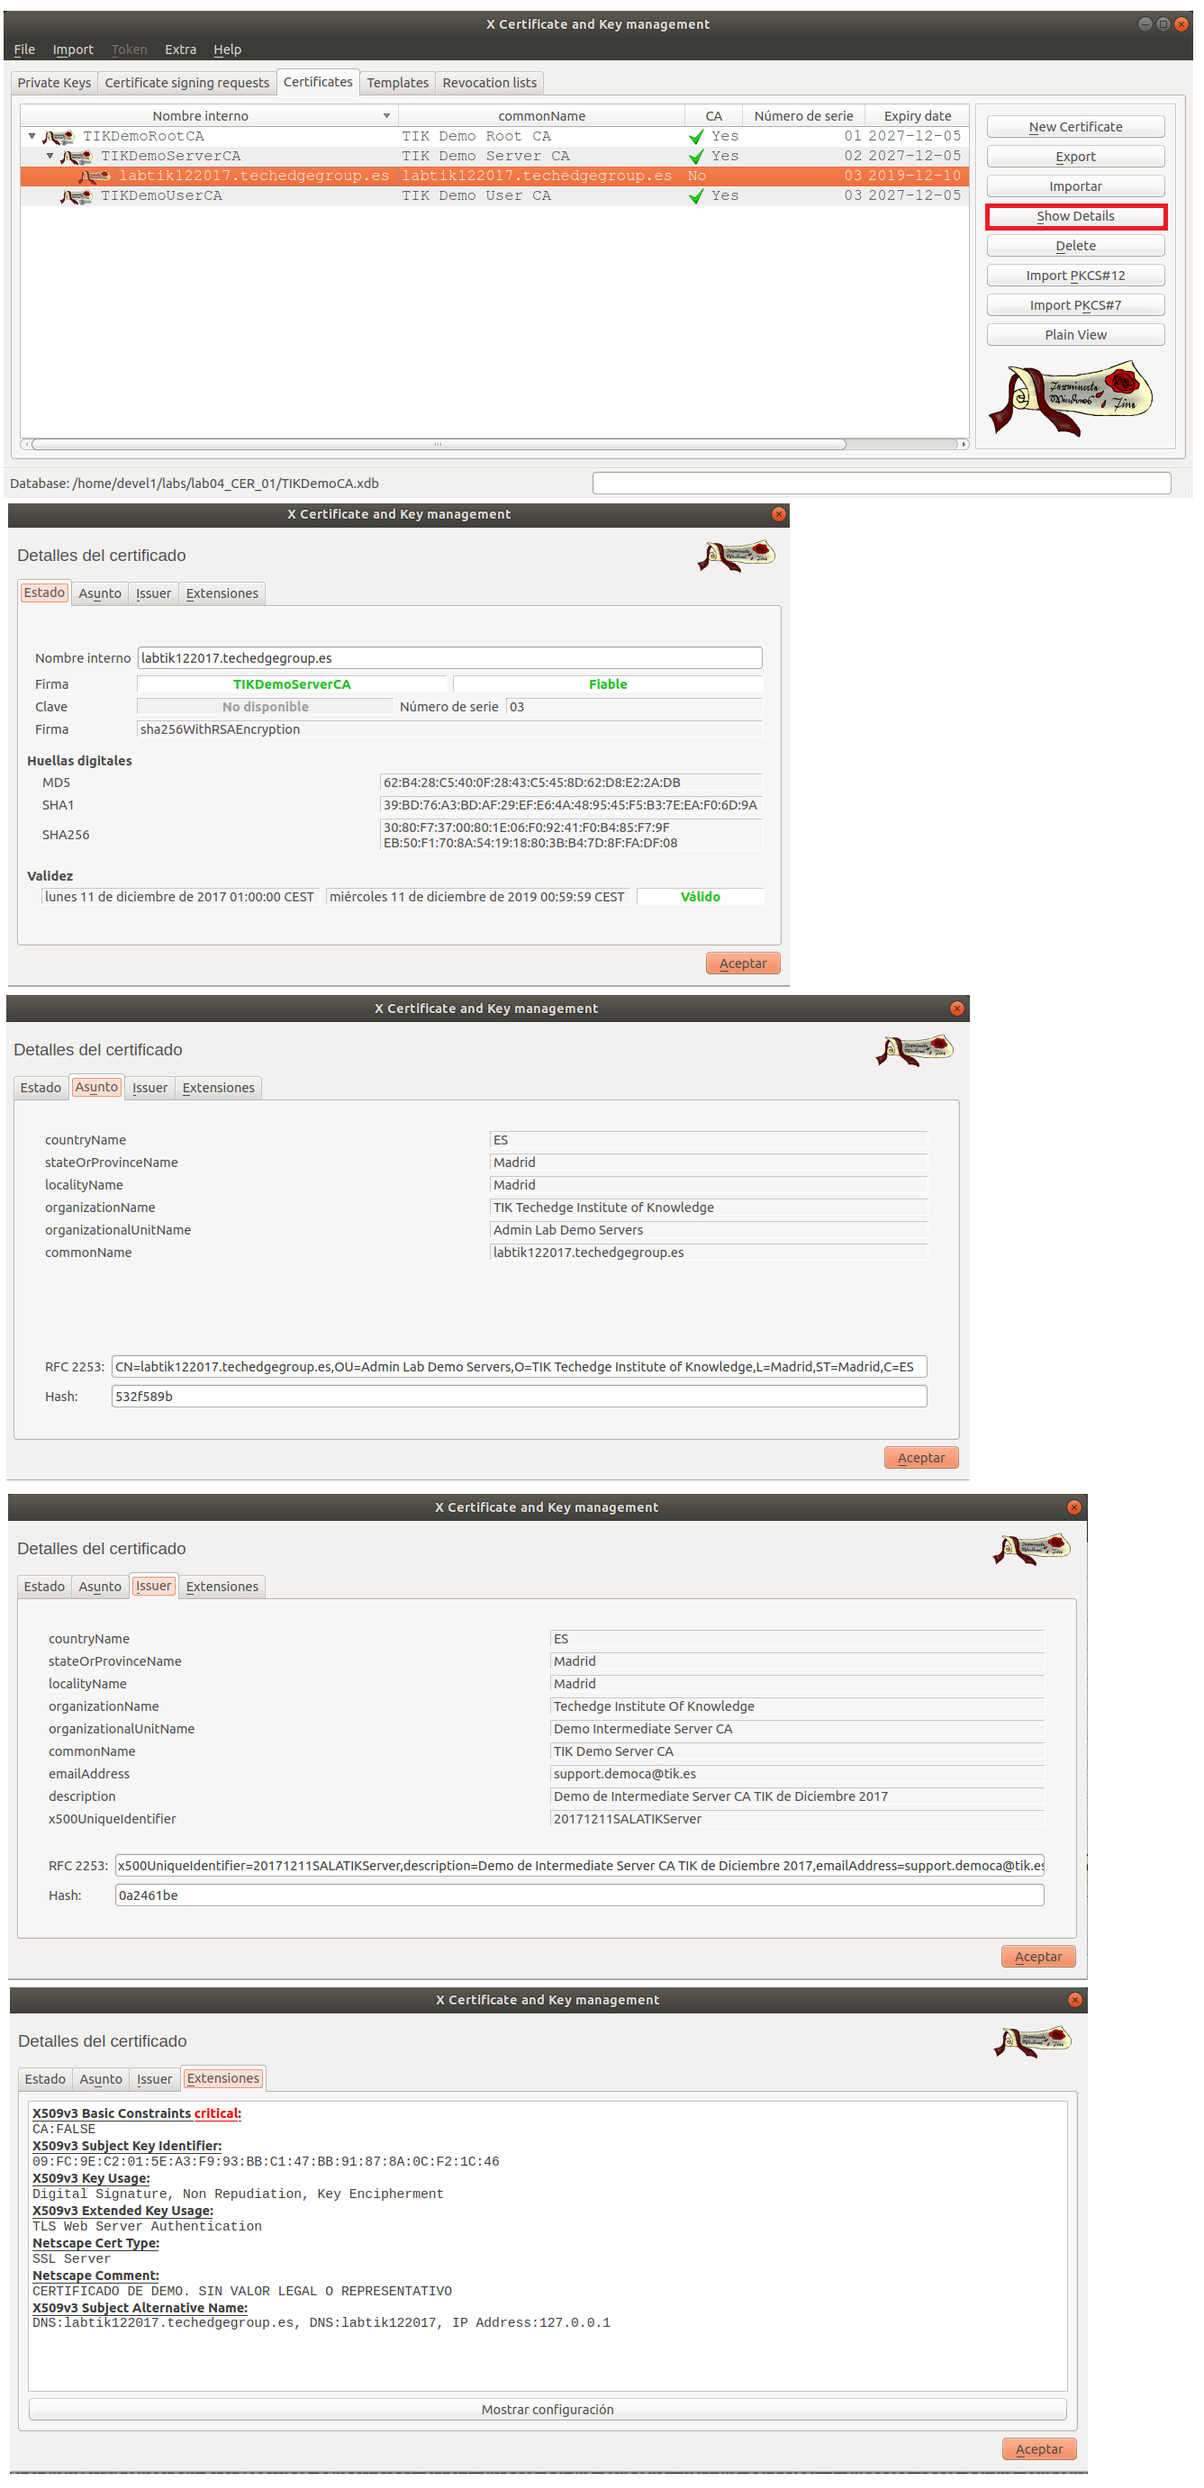
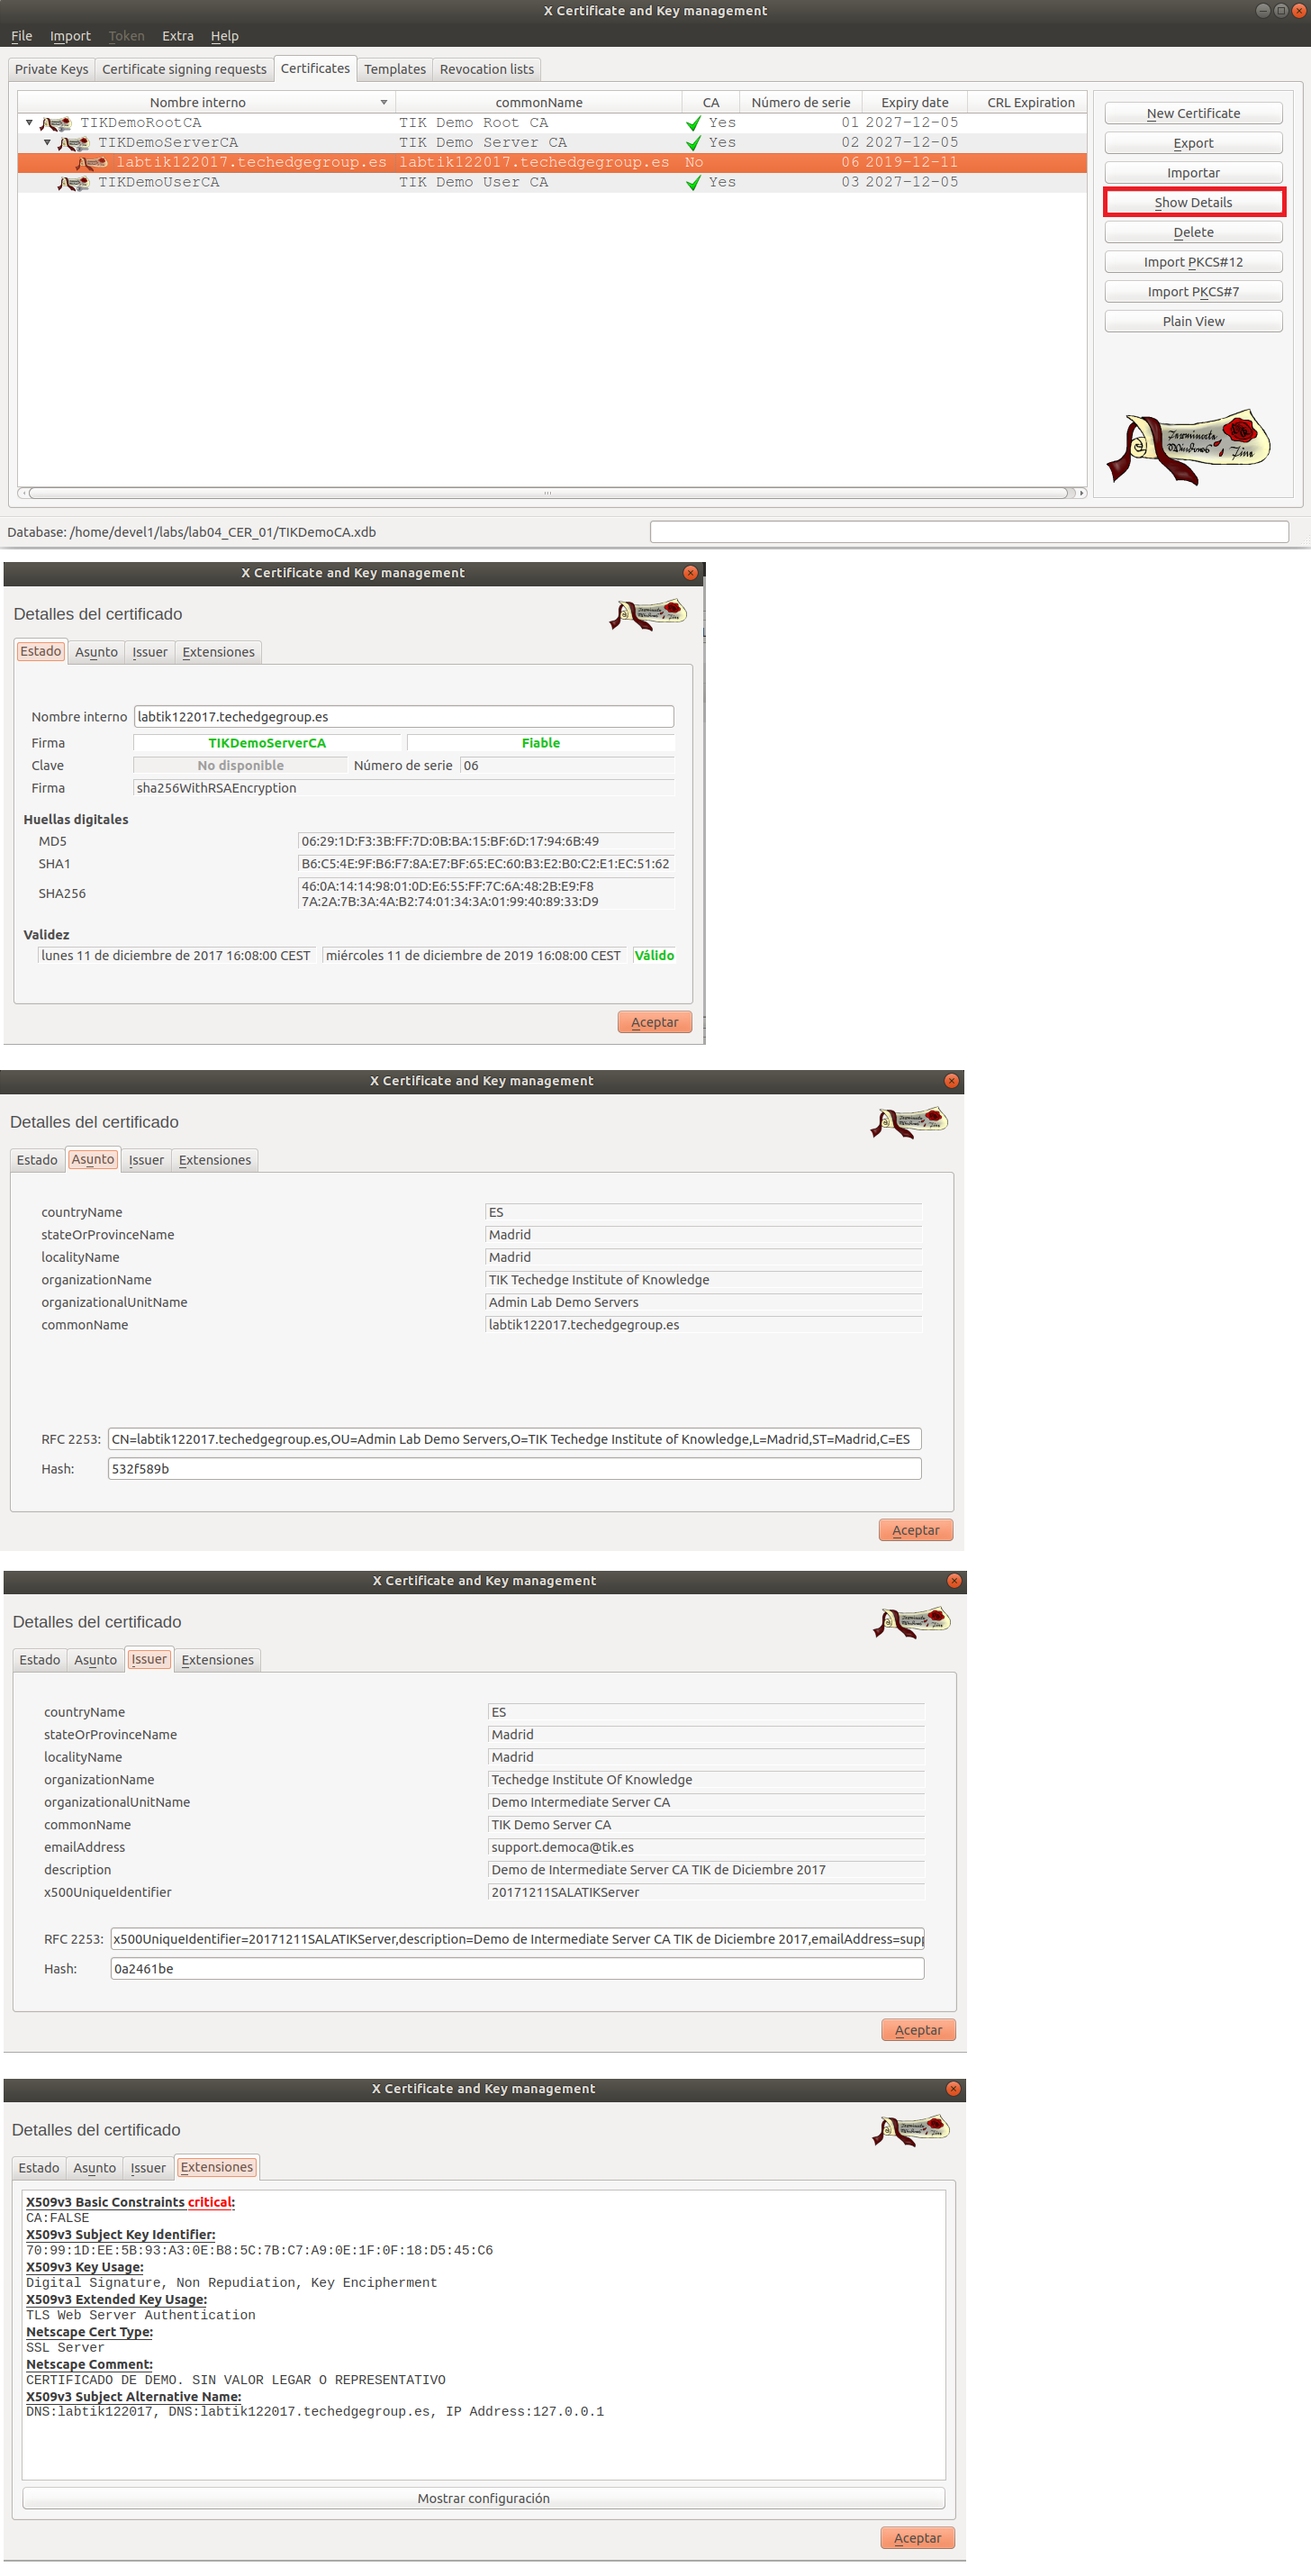
Lab04 Actualizacion

Changed region(s): [[0.0, 0.0, 1.0, 0.996], [0.828, 0.9649, 0.8893, 0.996]]

diff --git a/Lab04_CER_01.md b/Lab04_CER_01.md
@@ -496,7 +496,7 @@ Formato `PEM` y extensión `.crt`:
 gcr-viewer labtik122017.techedgegroup.es.crt
 ```
 
-![TIKDemoCA_img15_CRT_Viewer.png](images/TIKDemoCA_img15_CRT_Viewer.png  "TIKDemoCA_img15_CRT_Viewer.png")
+![TIKDemoCA_img15_CRT_Viewer.png](images/TIKDemoCA_img15_CRT_Viewer.png "TIKDemoCA_img15_CRT_Viewer.png")
 
 Formato `DER` y extensión `.cer`:
 
@@ -509,34 +509,34 @@ Formato `PEM` con la `Cadena de Certificados en formato PEM`:
 ```
 $ cat labtik122017.techedgegroup.es_CHAIN.pem
 -----BEGIN CERTIFICATE-----
[41 lines of base64/hex data omitted]
-8u3FOM70uAwEoegH0HUYmY5CBMS960kJzNKNFuUKFrmCE68=
[7 lines of base64/hex data omitted]
+pQ8lzX2LucRyVdV34S0nwsUVFo+g3HnB73LUpWjlVfVSfN4=
 -----END CERTIFICATE-----
 -----BEGIN CERTIFICATE-----
[1 lines of base64/hex data omitted]
@@ -599,6 +599,7 @@ vy611o6AHBpj8/5o2fJMcwgPAlU1Kg3ouihVoKePzzTPmQV78pTpeh6SsHQO3y5q
[1 lines of base64/hex data omitted]
 PNHrv96O6wHdE055D3Xa
 -----END CERTIFICATE-----
+
 ```
 ```
 gcr-viewer labtik122017.techedgegroup.es_CHAIN.pem
@@ -619,3 +620,20 @@ gcr-viewer labtik122017.techedgegroup.es.p7b
 ### Paso 4. Hacer disponible al `SOLICITANTE` el certificado generado junto con los certíficados X.509 de `Cadena de Certificación` con la que se firmó:
 
 
+Dependiendo de la 
+
+
+Recordar:
+
+```
+  openssl pkcs7 -in labtik122017.techedgegroup.es.p7b -out TIK_CA_chain.pem -inform DER -outform PEM -print_certs
+
+  subl TIK_CA_chain.pem  (Dejar solo, y en orden,los certificados de la CA)
+
+  openssl pkcs12 -export -out labtik122017.techedgegroup.es.p12 -inkey labtik122017_privkey.pem -name labtik122017.techedgegroup.es -in labtik122017.techedgegroup.es.crt -CAfile TIK_CA_chain.pem -certfile TIK_CA_chain.pem -passin pass:changeit -passout pass:changeit
+
+  openssl pkcs12 -info -in labtik122017.techedgegroup.es.p12 
+
+  keytool -importkeystore -srckeystore labtik122017.techedgegroup.es.p12 -srcstoretype pkcs12 -srcalias labtik122017.techedgegroup.es -srcstorepass changeit -destkeystore labtik122017.techedgegroup.es.jks -deststoretype jks -deststorepass changeit -destalias labtik122017.techedgegroup.es
+
+```
